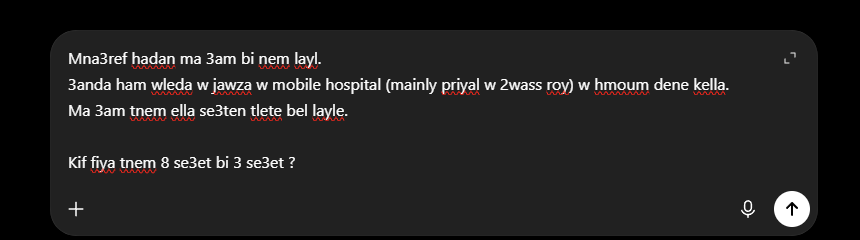
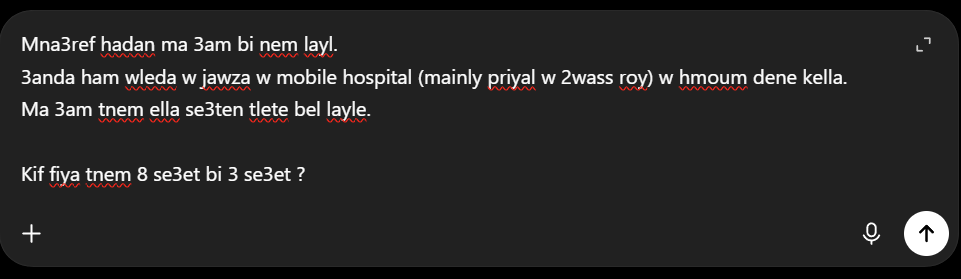
Fit the ChatGPT screenshot to the card and shrink it
The screenshot was rendering narrow and off-centre. Two causes: the
global `* { max-width: 100% }` guard is unlayered, so it silently beat
Tailwind's `max-w-none` and clamped the image back to the padded width
while a negative margin still shifted it left; and the image itself
carried an unused alpha channel.

Add a `.bleed` escape hatch next to that guard, and wrap the image in a
plain block box whose auto width plus negative margins resolves to the
card's inner width. Deliberately no arbitrary width value here — when
one failed to compile during testing, `.bleed` let the image balloon to
its natural 961px. It now sits flush inside the card's border rather
than spilling past it.

Image re-exported without alpha as a palette PNG: 25.3KB -> 10.9KB.

Changed region(s): [[0.0, 0.0292, 0.9977, 0.9917]]

diff --git a/src/components/Games.tsx b/src/components/Games.tsx
@@ -166,12 +166,21 @@ function Sleep({ solved, onSolve, resolution }: GameProps) {
       {/* The stream steps aside here — this beat is just the screenshot. */}
       {phase === "ask" || phase === "thinking" ? (
         <div className="animate-[fadeUp_.3s_ease-out]">
-          <Placeholder
-            src={SLEEP_ASSIST.ask.image}
-            label={SLEEP_ASSIST.ask.imageLabel}
-            fit="contain"
-            className="w-full mx-auto min-h-20 rounded border border-dbg-line bg-black"
-          />
+          {/* The wrapper cancels the card's own p-4 so the screenshot spans
+              the card edge to edge, and stops there — it stays inside the
+              card's border instead of escaping the panel. The width comes
+              from the wrapper being a plain block box: auto width plus the
+              negative margins resolves to exactly the padded width + 32px,
+              with no arbitrary value to depend on. `bleed` only lifts the
+              global max-width cap that would otherwise clamp it back. */}
+          <div className="bleed -mx-4">
+            <Placeholder
+              src={SLEEP_ASSIST.ask.image}
+              label={SLEEP_ASSIST.ask.imageLabel}
+              fit="contain"
+              className="w-full min-h-20 border-y border-dbg-line bg-black"
+            />
+          </div>
 
           <div className="h-16 grid place-items-center">
             {phase === "ask" ? (

diff --git a/src/app/globals.css b/src/app/globals.css
@@ -49,6 +49,15 @@ body {
   max-width: 100%;
 }
 
+/* The one deliberate exception: a block that must widen past the padding it
+   sits in. Tailwind's `max-w-none` cannot do this on its own — it lives in
+   @layer utilities, and the unlayered rule above beats any layered rule
+   regardless of specificity. Pair it with a negative margin, and keep the
+   result inside the viewport so the no-sideways-scroll rule still holds. */
+.bleed {
+  max-width: none;
+}
+
 /* ---------- Layer A ---------- */
 .corp {
   background: var(--color-corp-bg);
